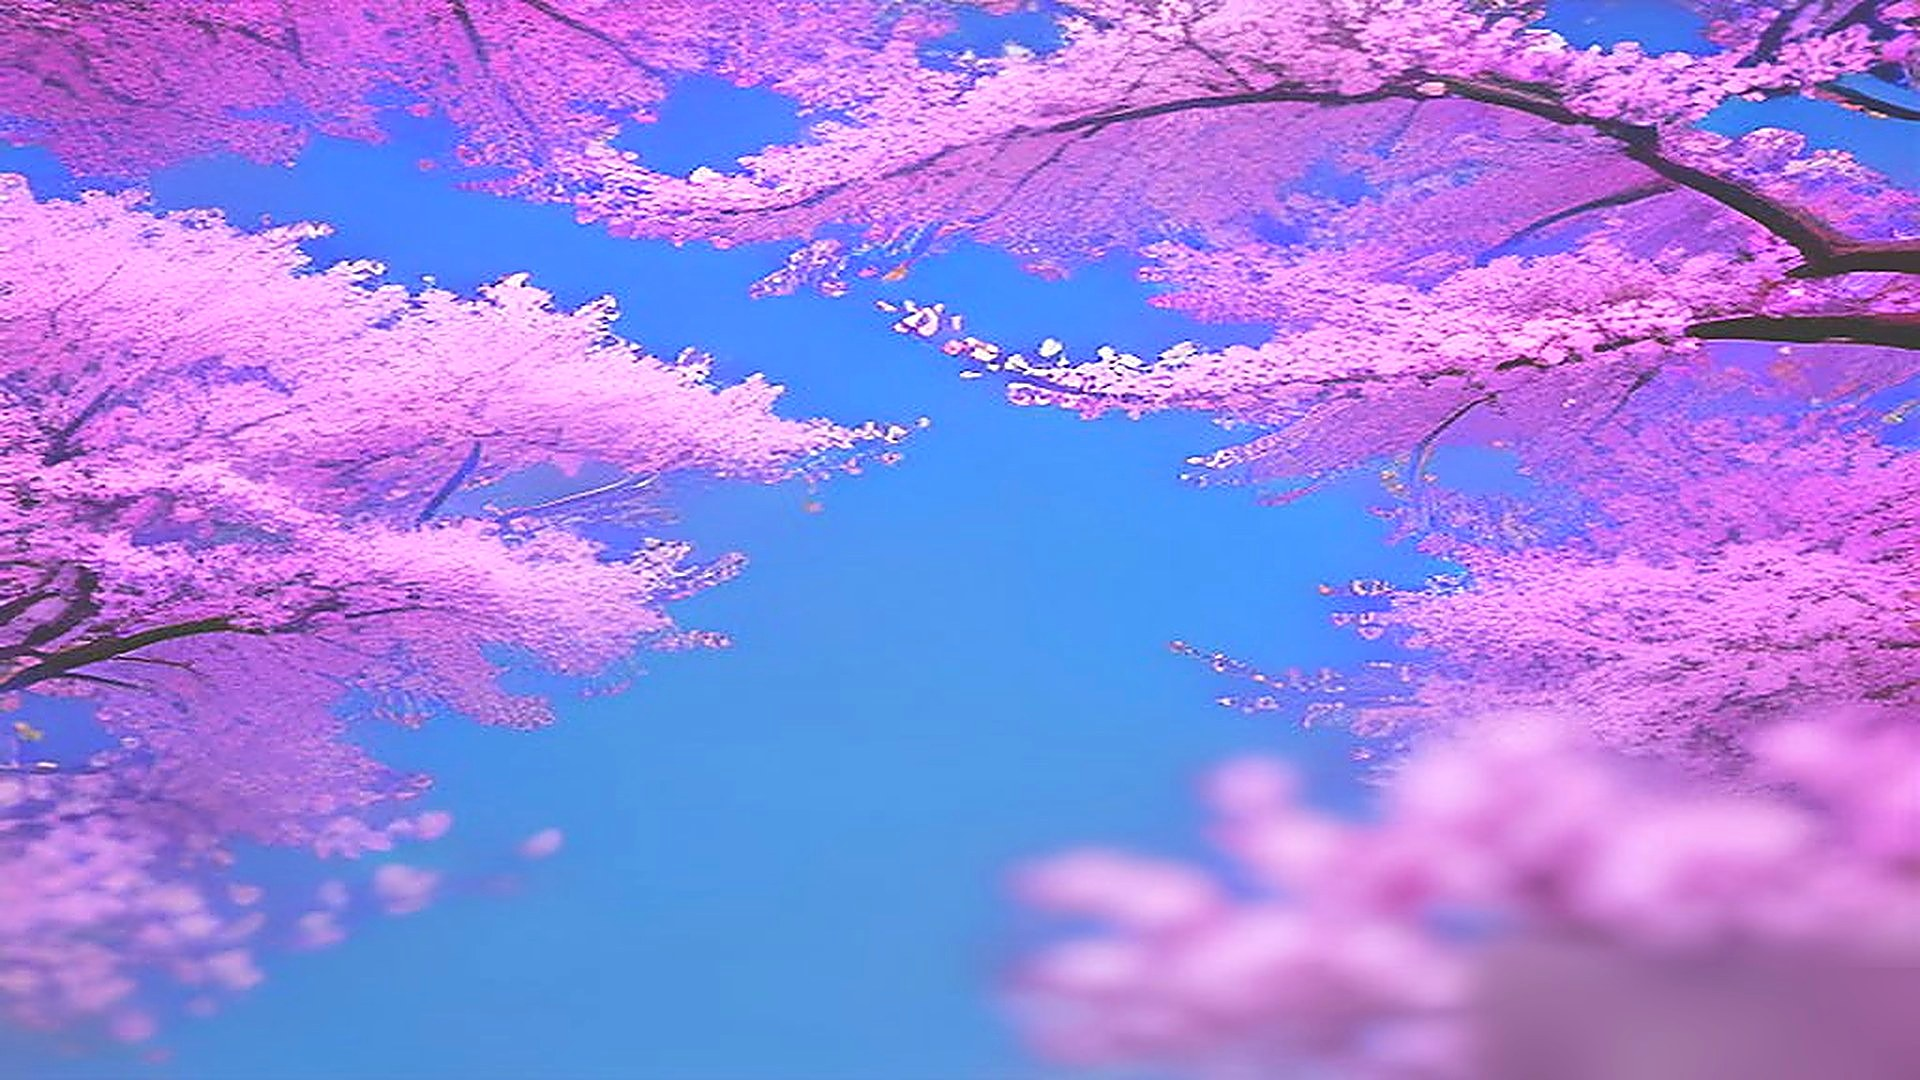
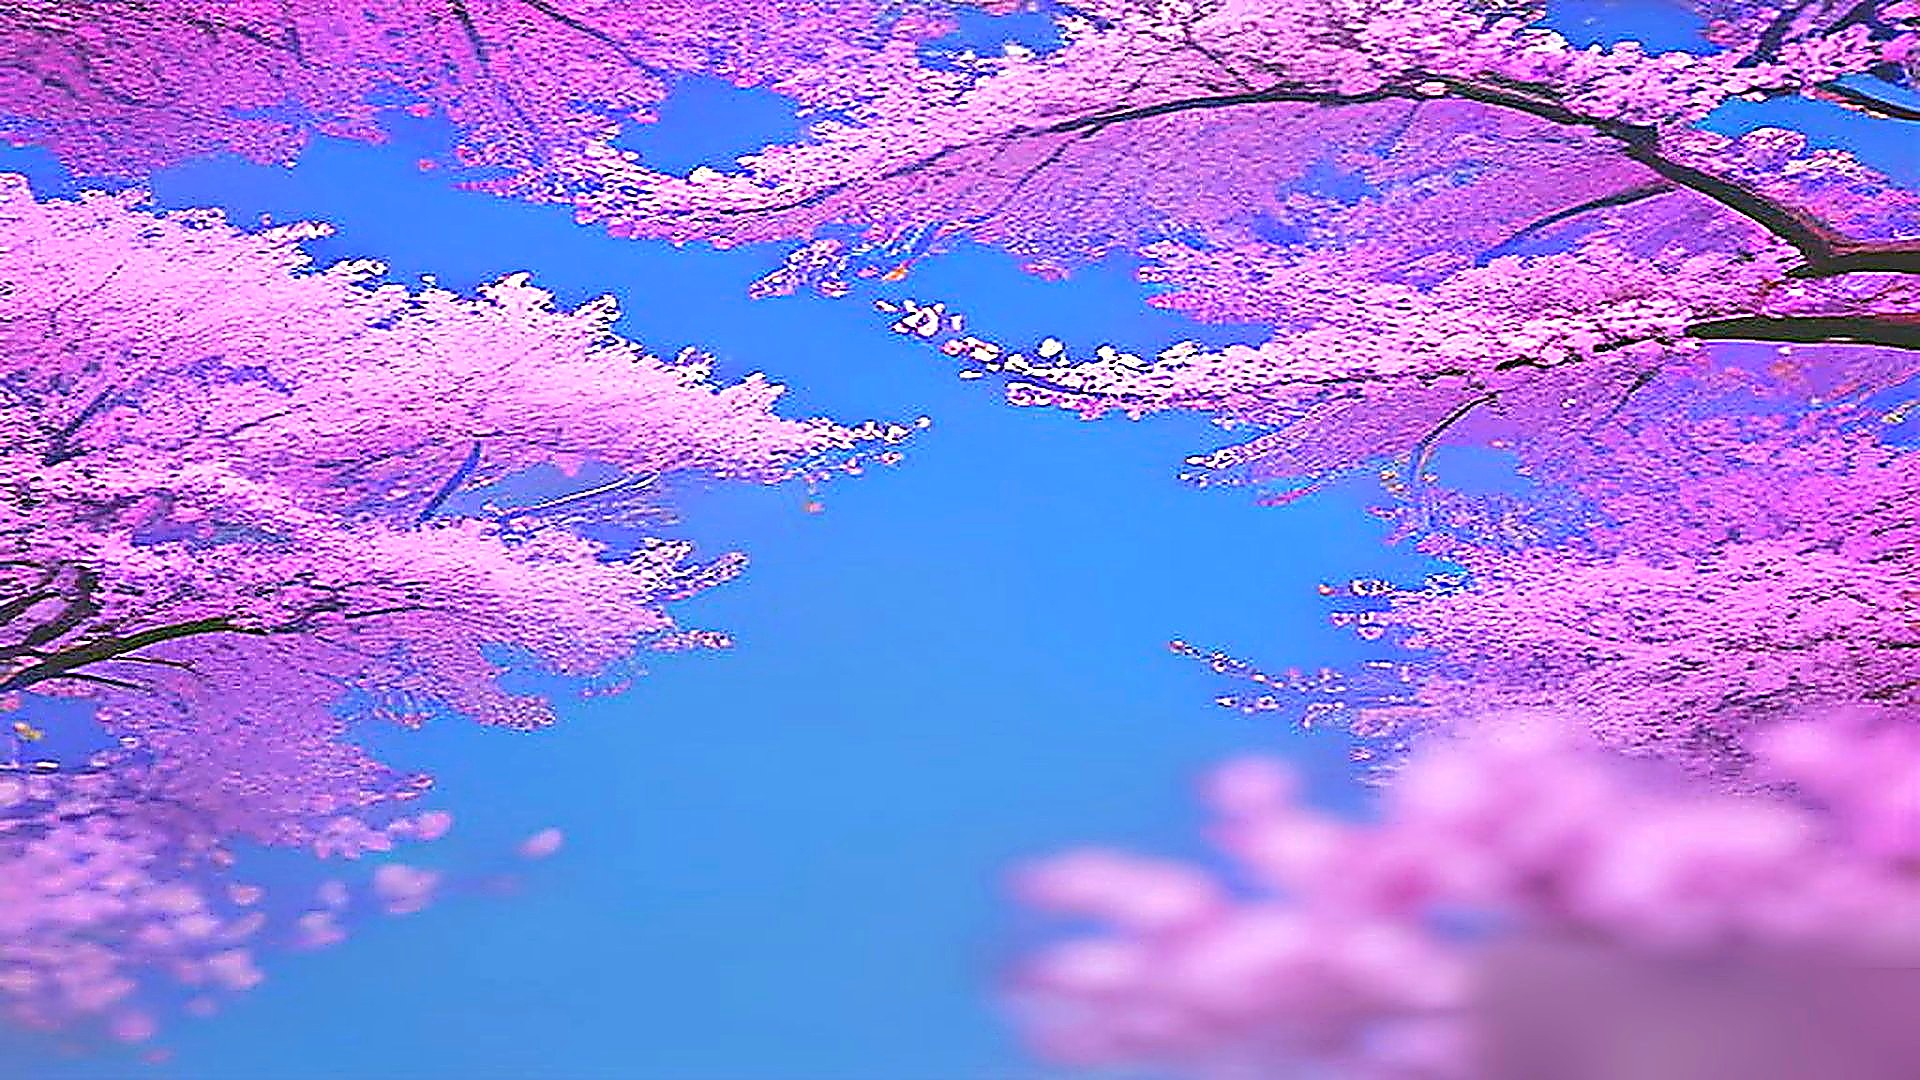
feat: 全主题壁纸清晰度增强（v1.4.8）
- 多尺度锐化管线：局部对比 clarity（r9/32%）+ 中尺度细节（r2.4/62%）
  + 细节锐化（r1.1/82%），配合饱和度 +7%、微对比 +4%
- 渲染端启用 imageSmoothingQuality=high，Ken Burns 放大幅度减半
- 资源版本号 ?v=1.4.8

Changed region(s): [[0.0, 0.0, 1.0, 0.7944]]

diff --git a/themes.html b/themes.html
@@ -7,7 +7,7 @@
   <meta name="description" content="为博客挑选一套背景：科技未来、自然风光、宇宙景观，点击卡片即时切换。">
   <meta name="theme-color" content="#f4f6fc">
   <link rel="icon" href="favicon.svg" type="image/svg+xml">
-  <link rel="stylesheet" href="assets/css/style.css?v=1.4.5">
+  <link rel="stylesheet" href="assets/css/style.css?v=1.4.8">
   <script>
     (function () {
       try {
@@ -79,9 +79,9 @@
     </div>
   </footer>
 
-  <script src="assets/js/posts.js?v=1.4.5"></script>
-  <script src="assets/js/backgrounds.js?v=1.4.5"></script>
-  <script src="assets/js/main.js?v=1.4.5"></script>
+  <script src="assets/js/posts.js?v=1.4.8"></script>
+  <script src="assets/js/backgrounds.js?v=1.4.8"></script>
+  <script src="assets/js/main.js?v=1.4.8"></script>
   <script>
     (function () {
       const groupsBox = document.getElementById("themeGroups");
@@ -101,7 +101,7 @@
                 ${items
                   .map(
                     (t) => `<button class="theme-card ${t.id === active ? "active" : ""}" data-id="${t.id}" type="button" aria-pressed="${t.id === active}">
-                      <div class="theme-swatch" style="background:url('assets/img/bg/${t.id}.jpg?v=1.4.5') center/cover, ${t.swatch}"></div>
+                      <div class="theme-swatch" style="background:url('assets/img/bg/${t.id}.jpg?v=1.4.8') center/cover, ${t.swatch}"></div>
                       <div class="theme-card-body">
                         <h3>${t.name}${t.id === active ? '<span class="theme-badge">使用中</span>' : ""}</h3>
                         <p>${t.desc}</p>

diff --git a/assets/js/backgrounds.js b/assets/js/backgrounds.js
@@ -9,7 +9,7 @@
 
 const REDUCE_BG = matchMedia("(prefers-reduced-motion: reduce)").matches;
 const BG_ROOT = /\/posts\//.test(location.pathname) ? "../" : "./";
-const BG_VER = "1.4.7";
+const BG_VER = "1.4.8";
 
 /* ---------------- 共享光标 ---------------- */
 const BG_MOUSE = { x: -99999, y: -99999 };
@@ -97,13 +97,15 @@ function makeCover(file) {
     draw(ctx, w, h, t) {
       if (!ok) return;
       if (!REDUCE_BG) alpha = Math.min(1, alpha + 0.02);
-      const z = REDUCE_BG ? 1.02 : 1.02 + 0.015 * Math.sin(t * 0.0022);
+      const z = REDUCE_BG ? 1.01 : 1.01 + 0.01 * Math.sin(t * 0.0022);
       const scale = Math.max(w / img.width, h / img.height) * z;
       const dw = img.width * scale, dh = img.height * scale;
       const dx = (w - dw) / 2 + (REDUCE_BG ? 0 : Math.sin(t * 0.0014) * w * 0.007);
       const dy = (h - dh) / 2 + (REDUCE_BG ? 0 : Math.cos(t * 0.0011) * h * 0.007);
       ctx.save();
       ctx.globalAlpha = alpha;
+      ctx.imageSmoothingEnabled = true;
+      ctx.imageSmoothingQuality = "high";
       ctx.drawImage(img, dx, dy, dw, dh);
       ctx.restore();
     },

diff --git a/posts/frontend-roadmap.html b/posts/frontend-roadmap.html
@@ -15,7 +15,7 @@
   {"@context":"https://schema.org","@type":"BlogPosting","headline":"2026 前端学习路线（个人重制版）","datePublished":"2026-10-10","author":{"@type":"Person","name":"拾光"},"description":"从 HTML/CSS 基础到工程化与 AI 辅助开发，一份我亲测有效、持续更新的前端学习路线图。"}
   </script>
   <link rel="icon" href="../favicon.svg" type="image/svg+xml">
-  <link rel="stylesheet" href="../assets/css/style.css?v=1.4.5">
+  <link rel="stylesheet" href="../assets/css/style.css?v=1.4.8">
   <script>
     (function () {
       try {
@@ -193,7 +193,7 @@ cd my-app &amp;&amp; npm install &amp;&amp; npm run dev</code></pre>
     </div>
   </footer>
 
-  <script src="../assets/js/posts.js?v=1.4.5"></script>
-  <script src="../assets/js/main.js?v=1.4.5"></script>
+  <script src="../assets/js/posts.js?v=1.4.8"></script>
+  <script src="../assets/js/main.js?v=1.4.8"></script>
 </body>
 </html>

diff --git a/posts/reading-notes.html b/posts/reading-notes.html
@@ -15,7 +15,7 @@
   {"@context":"https://schema.org","@type":"BlogPosting","headline":"秋日读书笔记：最近读完的三本书","datePublished":"2026-09-15","author":{"@type":"Person","name":"拾光"},"description":"《置身事内》《夜晚的潜水艇》《纳瓦尔宝典》——三本气质迥异的书，带来三种不同的收获。"}
   </script>
   <link rel="icon" href="../favicon.svg" type="image/svg+xml">
-  <link rel="stylesheet" href="../assets/css/style.css?v=1.4.5">
+  <link rel="stylesheet" href="../assets/css/style.css?v=1.4.8">
   <script>
     (function () {
       try {
@@ -172,7 +172,7 @@
     </div>
   </footer>
 
-  <script src="../assets/js/posts.js?v=1.4.5"></script>
-  <script src="../assets/js/main.js?v=1.4.5"></script>
+  <script src="../assets/js/posts.js?v=1.4.8"></script>
+  <script src="../assets/js/main.js?v=1.4.8"></script>
 </body>
 </html>

diff --git a/posts/hello-world.html b/posts/hello-world.html
@@ -15,7 +15,7 @@
   {"@context":"https://schema.org","@type":"BlogPosting","headline":"你好，世界：我的博客正式开张","datePublished":"2026-10-24","author":{"@type":"Person","name":"拾光"},"description":"搭建这座小站的过程与心情，以及我为什么想在互联网上拥有一个完全属于自己的角落。"}
   </script>
   <link rel="icon" href="../favicon.svg" type="image/svg+xml">
-  <link rel="stylesheet" href="../assets/css/style.css?v=1.4.5">
+  <link rel="stylesheet" href="../assets/css/style.css?v=1.4.8">
   <script>
     (function () {
       try {
@@ -176,7 +176,7 @@
     </div>
   </footer>
 
-  <script src="../assets/js/posts.js?v=1.4.5"></script>
-  <script src="../assets/js/main.js?v=1.4.5"></script>
+  <script src="../assets/js/posts.js?v=1.4.8"></script>
+  <script src="../assets/js/main.js?v=1.4.8"></script>
 </body>
 </html>

diff --git a/posts/productivity-tools.html b/posts/productivity-tools.html
@@ -15,7 +15,7 @@
   {"@context":"https://schema.org","@type":"BlogPosting","headline":"我的效率工具箱（2026 版）","datePublished":"2026-09-28","author":{"@type":"Person","name":"拾光"},"description":"覆盖笔记、任务、终端与自动化的个人工具清单，以及我挑选工具时遵循的三条原则。"}
   </script>
   <link rel="icon" href="../favicon.svg" type="image/svg+xml">
-  <link rel="stylesheet" href="../assets/css/style.css?v=1.4.5">
+  <link rel="stylesheet" href="../assets/css/style.css?v=1.4.8">
   <script>
     (function () {
       try {
@@ -171,7 +171,7 @@
     </div>
   </footer>
 
-  <script src="../assets/js/posts.js?v=1.4.5"></script>
-  <script src="../assets/js/main.js?v=1.4.5"></script>
+  <script src="../assets/js/posts.js?v=1.4.8"></script>
+  <script src="../assets/js/main.js?v=1.4.8"></script>
 </body>
 </html>

diff --git a/posts/why-i-write.html b/posts/why-i-write.html
@@ -15,7 +15,7 @@
   {"@context":"https://schema.org","@type":"BlogPosting","headline":"为什么我要开始写博客","datePublished":"2026-10-18","author":{"@type":"Person","name":"拾光"},"description":"写作是思考的显影液。聊聊输出如何倒逼输入，以及我希望坚持写作能带来的三个变化。"}
   </script>
   <link rel="icon" href="../favicon.svg" type="image/svg+xml">
-  <link rel="stylesheet" href="../assets/css/style.css?v=1.4.5">
+  <link rel="stylesheet" href="../assets/css/style.css?v=1.4.8">
   <script>
     (function () {
       try {
@@ -173,7 +173,7 @@
     </div>
   </footer>
 
-  <script src="../assets/js/posts.js?v=1.4.5"></script>
-  <script src="../assets/js/main.js?v=1.4.5"></script>
+  <script src="../assets/js/posts.js?v=1.4.8"></script>
+  <script src="../assets/js/main.js?v=1.4.8"></script>
 </body>
 </html>

diff --git a/blog.html b/blog.html
@@ -7,7 +7,7 @@
   <meta name="description" content="拾光小栈的全部文章：技术笔记、读书心得、效率工具与生活随笔。支持全文搜索与标签筛选。">
   <meta name="theme-color" content="#f4f6fc">
   <link rel="icon" href="favicon.svg" type="image/svg+xml">
-  <link rel="stylesheet" href="assets/css/style.css?v=1.4.5">
+  <link rel="stylesheet" href="assets/css/style.css?v=1.4.8">
   <script>
     (function () {
       try {
@@ -93,8 +93,8 @@
     </div>
   </footer>
 
-  <script src="assets/js/posts.js?v=1.4.5"></script>
-  <script src="assets/js/backgrounds.js?v=1.4.5"></script>
-  <script src="assets/js/main.js?v=1.4.5"></script>
+  <script src="assets/js/posts.js?v=1.4.8"></script>
+  <script src="assets/js/backgrounds.js?v=1.4.8"></script>
+  <script src="assets/js/main.js?v=1.4.8"></script>
 </body>
 </html>

diff --git a/posts/letter-to-future.html b/posts/letter-to-future.html
@@ -15,7 +15,7 @@
   {"@context":"https://schema.org","@type":"BlogPosting","headline":"写给一年后的自己","datePublished":"2026-09-01","author":{"@type":"Person","name":"拾光"},"description":"一封慢递信：关于健康、创作与勇气的几个约定，明年今日拆封对账。"}
   </script>
   <link rel="icon" href="../favicon.svg" type="image/svg+xml">
-  <link rel="stylesheet" href="../assets/css/style.css?v=1.4.5">
+  <link rel="stylesheet" href="../assets/css/style.css?v=1.4.8">
   <script>
     (function () {
       try {
@@ -172,7 +172,7 @@
     </div>
   </footer>
 
-  <script src="../assets/js/posts.js?v=1.4.5"></script>
-  <script src="../assets/js/main.js?v=1.4.5"></script>
+  <script src="../assets/js/posts.js?v=1.4.8"></script>
+  <script src="../assets/js/main.js?v=1.4.8"></script>
 </body>
 </html>

diff --git a/projects.html b/projects.html
@@ -7,7 +7,7 @@
   <meta name="description" content="拾光在做的与做过的小项目：玩具也好，工具也罢，动手做出来才有意思。">
   <meta name="theme-color" content="#f4f6fc">
   <link rel="icon" href="favicon.svg" type="image/svg+xml">
-  <link rel="stylesheet" href="assets/css/style.css?v=1.4.5">
+  <link rel="stylesheet" href="assets/css/style.css?v=1.4.8">
   <script>
     (function () {
       try {
@@ -130,8 +130,8 @@
     </div>
   </footer>
 
-  <script src="assets/js/posts.js?v=1.4.5"></script>
-  <script src="assets/js/backgrounds.js?v=1.4.5"></script>
-  <script src="assets/js/main.js?v=1.4.5"></script>
+  <script src="assets/js/posts.js?v=1.4.8"></script>
+  <script src="assets/js/backgrounds.js?v=1.4.8"></script>
+  <script src="assets/js/main.js?v=1.4.8"></script>
 </body>
 </html>

diff --git a/about.html b/about.html
@@ -7,7 +7,7 @@
   <meta name="description" content="关于拾光：一个喜欢写代码、读闲书、记录生活的人。关于本站的一切。">
   <meta name="theme-color" content="#f4f6fc">
   <link rel="icon" href="favicon.svg" type="image/svg+xml">
-  <link rel="stylesheet" href="assets/css/style.css?v=1.4.5">
+  <link rel="stylesheet" href="assets/css/style.css?v=1.4.8">
   <script>
     (function () {
       try {
@@ -176,8 +176,8 @@
     </div>
   </footer>
 
-  <script src="assets/js/posts.js?v=1.4.5"></script>
-  <script src="assets/js/backgrounds.js?v=1.4.5"></script>
-  <script src="assets/js/main.js?v=1.4.5"></script>
+  <script src="assets/js/posts.js?v=1.4.8"></script>
+  <script src="assets/js/backgrounds.js?v=1.4.8"></script>
+  <script src="assets/js/main.js?v=1.4.8"></script>
 </body>
 </html>

diff --git a/index.html b/index.html
@@ -11,7 +11,7 @@
   <meta property="og:description" content="拾光的个人博客：技术笔记、读书心得、效率工具与生活碎片。">
   <meta property="og:type" content="website">
   <link rel="icon" href="favicon.svg" type="image/svg+xml">
-  <link rel="stylesheet" href="assets/css/style.css?v=1.4.5">
+  <link rel="stylesheet" href="assets/css/style.css?v=1.4.8">
   <script>
     (function () {
       try {
@@ -144,8 +144,8 @@
     </div>
   </footer>
 
-  <script src="assets/js/posts.js?v=1.4.5"></script>
-  <script src="assets/js/backgrounds.js?v=1.4.5"></script>
-  <script src="assets/js/main.js?v=1.4.5"></script>
+  <script src="assets/js/posts.js?v=1.4.8"></script>
+  <script src="assets/js/backgrounds.js?v=1.4.8"></script>
+  <script src="assets/js/main.js?v=1.4.8"></script>
 </body>
 </html>
